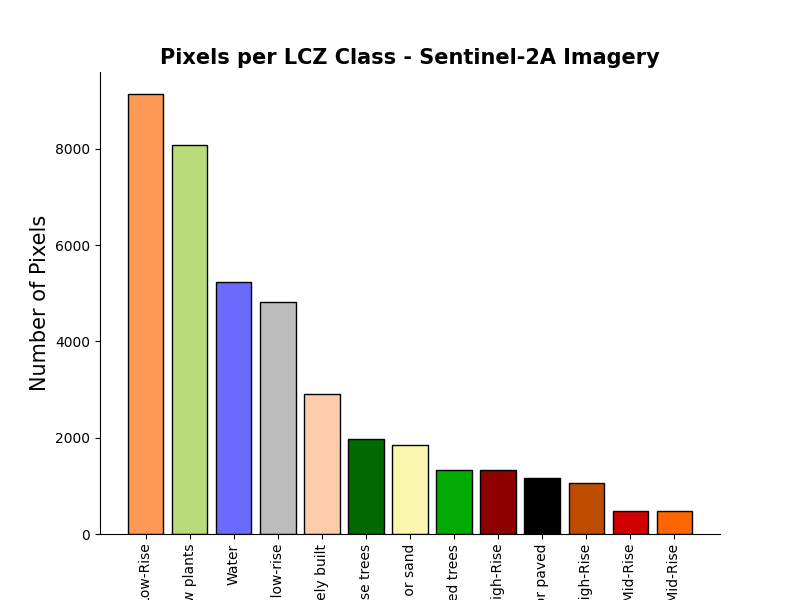
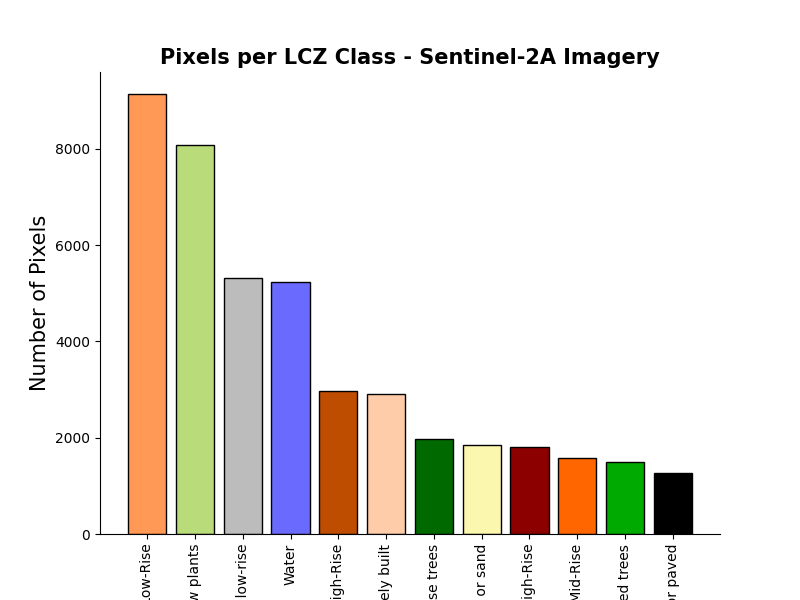
Update Read ME

Changed region(s): [[0.1875, 0.15, 0.875, 1.0], [0.1562, 0.9, 0.1875, 1.0]]

diff --git a/README.md b/README.md
@@ -22,6 +22,17 @@ Primary Objectives:
 
 ### 3. Datasets
 
+The table below outlines the various datasets employed for conducting LCZ classification in Toronto. Except for the Canadian buildings dataset, all datasets are available on a global scale and thus can be utilized for any city, as long as the appropriate building heights data is acquired. 
+
+|Name      |Spatial Resolution| Reference Date|Source | 
+|------------|------------|------------|------------|
+|Sentinel-L2A   | 10 / 20 m  | 2023 | [Google Earth Engine Catalog](https://developers.google.com/earth-engine/datasets/catalog/COPERNICUS_S2_SR_HARMONIZED#description)|
+|ALOS DSM: Global (30m) v3.2  | 30 m  | 2006 | [Google Earth Engine Catalog](https://developers.google.com/earth-engine/datasets/catalog/JAXA_ALOS_AW3D30_V3_2)|
+|Automatically Extracted Buildings  | NA (Vector) | 2023| [Government of Canada](https://open.canada.ca/data/en/dataset/7a5cda52-c7df-427f-9ced-26f19a8a64d6)|
+|ETH Global Sentinel-2 (10m) Canopy Height  | 30 m  |2020 | [Google Earth Engine Catalog](https://gee-community-catalog.org/projects/canopy/)|
+|GISA-10m Impervious Surface Area | 10 m  |2016 | [Huang et al (2021)](https://zenodo.org/records/5791855)|
+
+
 #### Sentinel-2 L2A Imagery
 
 As per Vavassori et al. (2024), bands from B02 to B07, B8A, B11, and B12 were utilized from the harmonized Sentinel-2 L2A dataset. Below is an RGB composite of the Sentinel-2 imagery collected on 15th of May, 2023.
@@ -41,6 +52,17 @@ Spectral Seperability Between Classes using Jeffries-Matuista Distance
 
 #### Urban Canopy Parameters
 
+Following the steps outlined by Vavassori et al. (2024), Urban Canopy Parameters for Toronto were derived.
+
+|UCP      | Source Dataset| 
+|------------|------------|
+|Building Height  | [Government of Canada](https://open.canada.ca/data/en/dataset/7a5cda52-c7df-427f-9ced-26f19a8a64d6) | 
+|Tree Canopy Height| [ETH Global Sentinel-2 (10m) Canopy Height](https://gee-community-catalog.org/projects/canopy/) | 
+|Sky View Factor  |[ALOS DSM: Global (30m) v3.2 ](https://developers.google.com/earth-engine/datasets/catalog/JAXA_ALOS_AW3D30_V3_2) |
+|Impervious Surface Fraction | [GISA-10m Impervious Surface Area](https://zenodo.org/records/5791855)|
+|Building Surface Fraction| [Government of Canada](https://open.canada.ca/data/en/dataset/7a5cda52-c7df-427f-9ced-26f19a8a64d6)|
+
+
 <img src="reports/figures/UCPs.png" alt="drawing" width="500"/>
 
 ### 3. LCZ Classification with Random Forest
@@ -51,27 +73,27 @@ A Random Forest Classifier was trained on Sentinel-2 imagery and GIS-derived Urb
 
 |Metric      |Result|
 |------------|------|
-|accuracy    |0.90  |
-|macro avg   |0.85  |
-|weighted avg|0.90  |
+|Accuracy    |0.87  |
+|Macro Avg   |0.83  |
+|Weighted Avg |0.87  |
 
 ### Classification Report
 
 |Class         |Precision|Recall|F1-score|Support|
 |------------------|---------|------|--------|-------|
-|Compact High-Rise |0.91     |0.78  |0.84    |397    |
-|Compact Mid-Rise  |0.77     |0.43  |0.55    |144    |
-|Open High-Rise    |0.64     |0.5   |0.56    |317    |
-|Open Mid-Rise     |0.68     |0.21  |0.32    |143    |
-|Open Low-Rise     |0.88     |0.94  |0.91    |2742   |
-|Large low-rise    |0.86     |0.94  |0.9     |1444   |
-|Sparsely built    |0.76     |0.69  |0.72    |871    |
-|Dense trees       |0.93     |0.98  |0.96    |593    |
-|Scattered trees   |0.94     |0.91  |0.92    |401    |
-|Low plants        |0.97     |0.97  |0.97    |2424   |
-|Bare rock or paved|0.83     |0.92  |0.87    |349    |
-|Bare soil or sand |0.95     |0.91  |0.93    |552    |
+|Compact High-Rise |0.86     |0.8   |0.83    |664    |
+|Open High-Rise    |0.67     |0.7   |0.69    |1166   |
+|Open Mid-Rise     |0.73     |0.44  |0.55    |471    |
+|Open Low-Rise     |0.87     |0.91  |0.89    |2741   |
+|Large low-rise    |0.86     |0.89  |0.87    |1596   |
+|Sparsely built    |0.72     |0.65  |0.68    |871    |
+|Dense trees       |0.9      |0.96  |0.93    |593    |
+|Scattered trees   |0.88     |0.92  |0.90     |451    |
+|Low plants        |0.96     |0.96  |0.96    |2424   |
+|Bare rock or paved|0.72     |0.91  |0.80     |380    |
+|Bare soil or sand |0.95     |0.91  |0.93    |553    |
 |Water             |1.0      |1.0   |1.0     |1570   |
+
 
 
 #### Confusion Matrix
